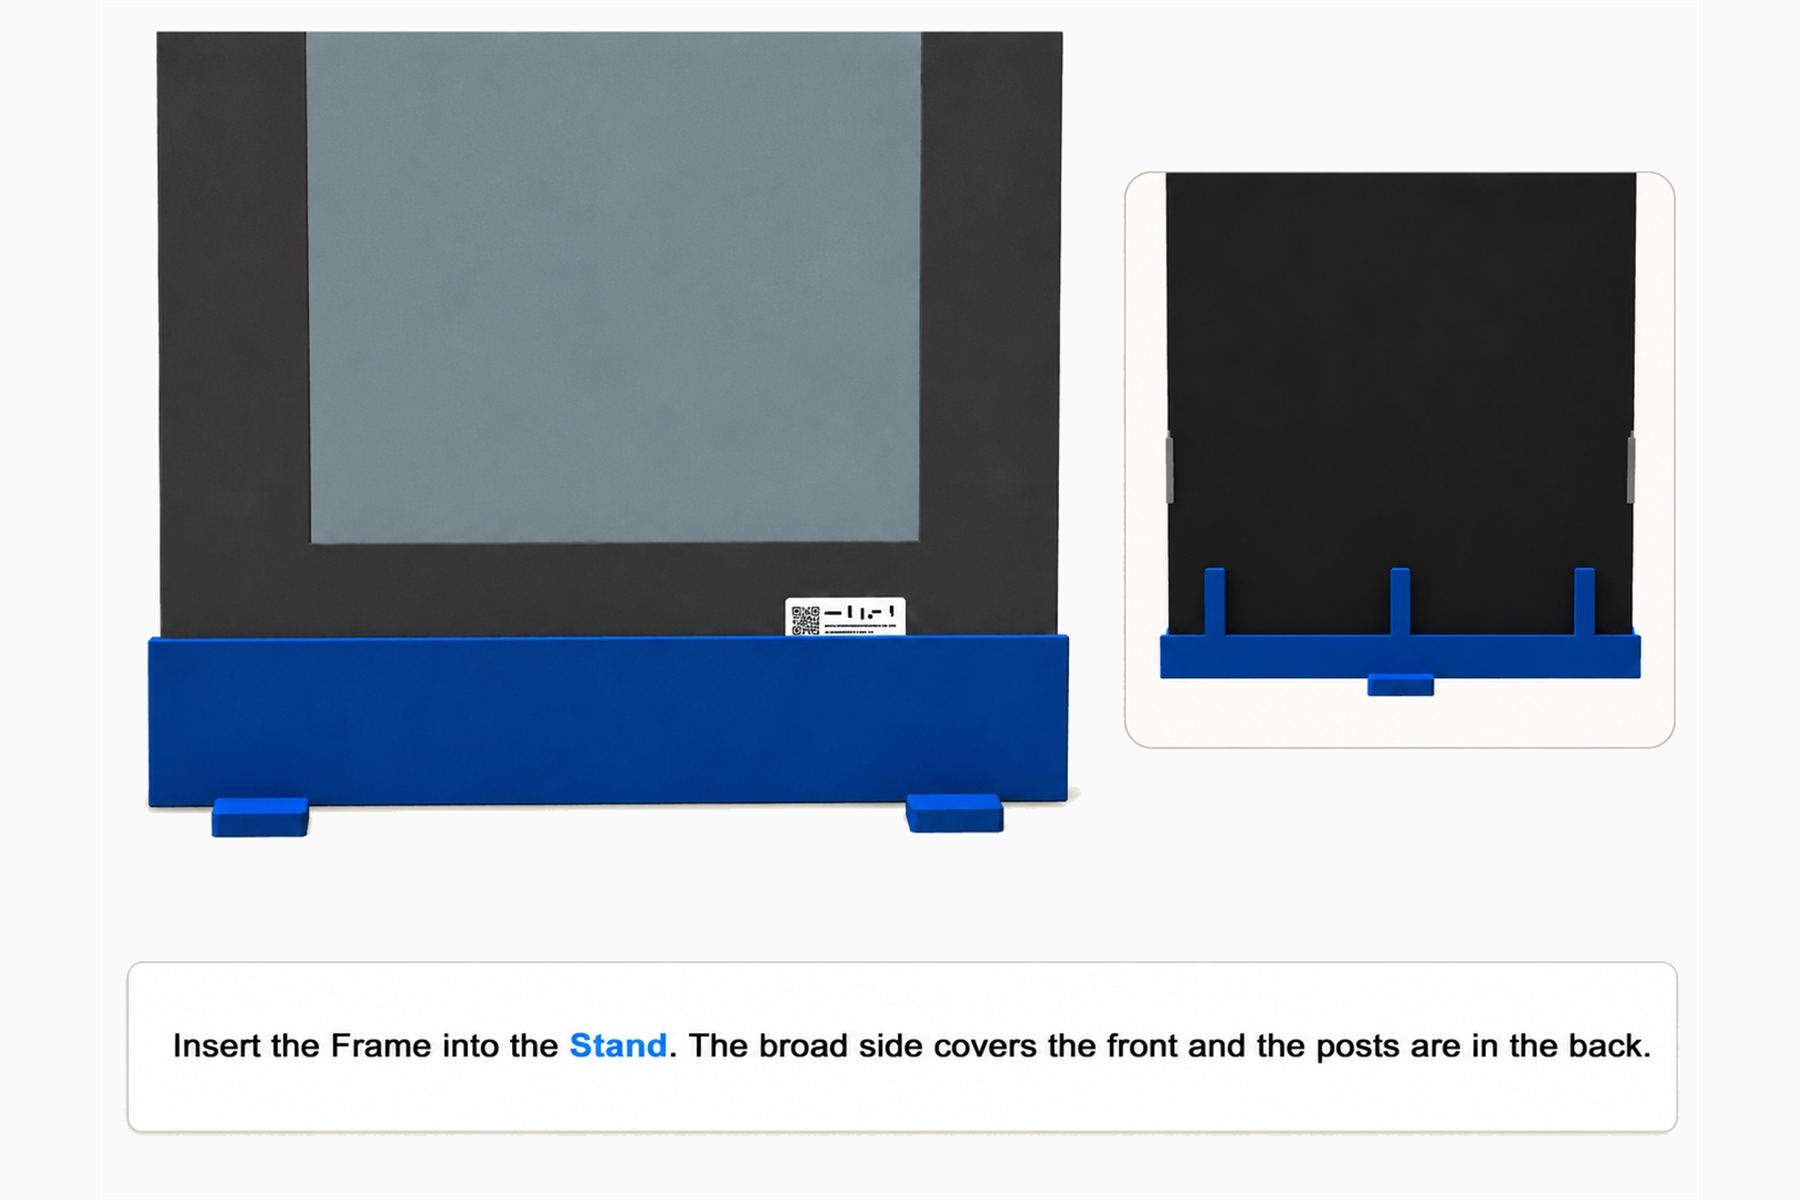
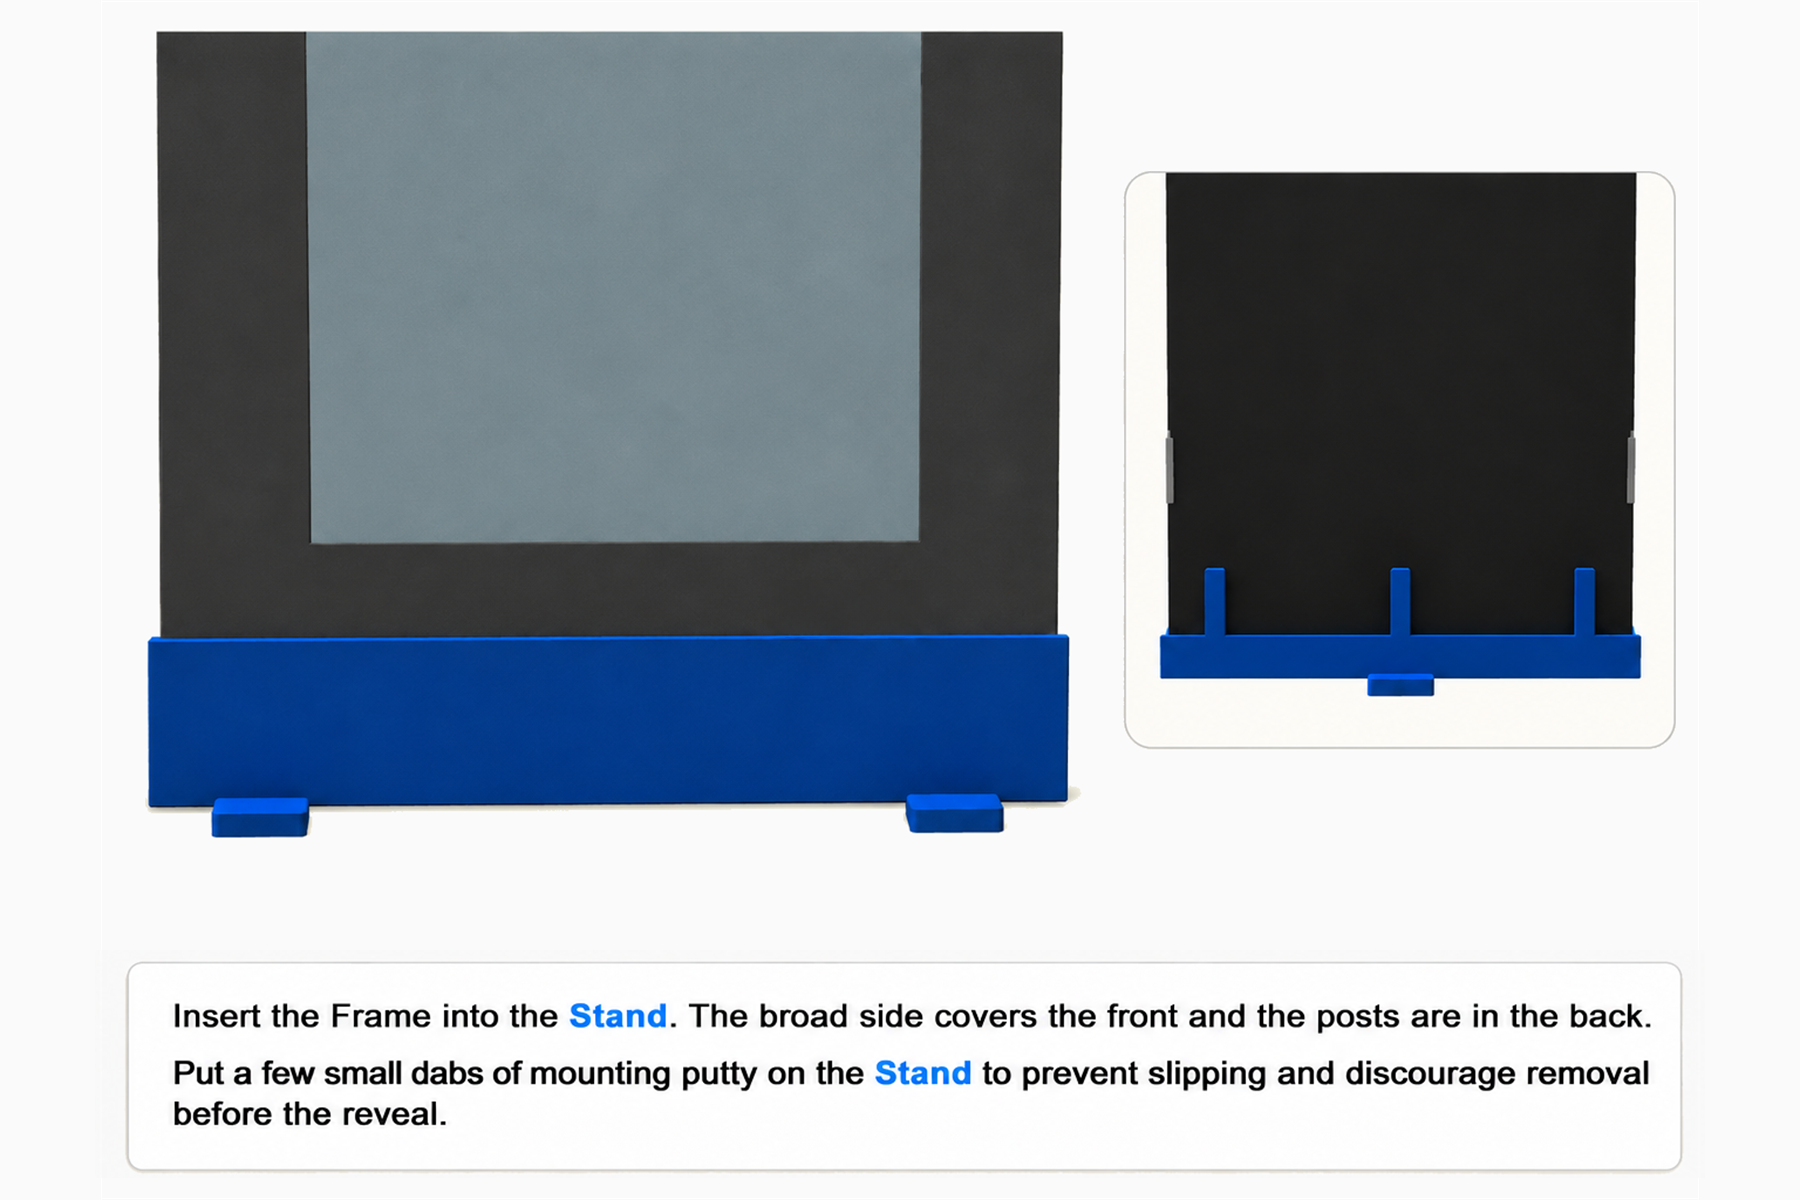
Update frame stand finishing instruction

Changed region(s): [[0.0622, 0.8325, 0.9333, 0.9867], [0.4356, 0.4933, 0.5289, 0.555]]

diff --git a/AssemblyData.html b/AssemblyData.html
@@ -1,5 +1,5 @@
 window.ASSEMBLY_MANIFEST = {
-  version: 7,
+  version: 8,
   imageBase: "https://cdn.jsdelivr.net/gh/dvzdan/frames-site@17261ff/assets/instruction%20images",
   reference: {
     title: "Final Setup",
